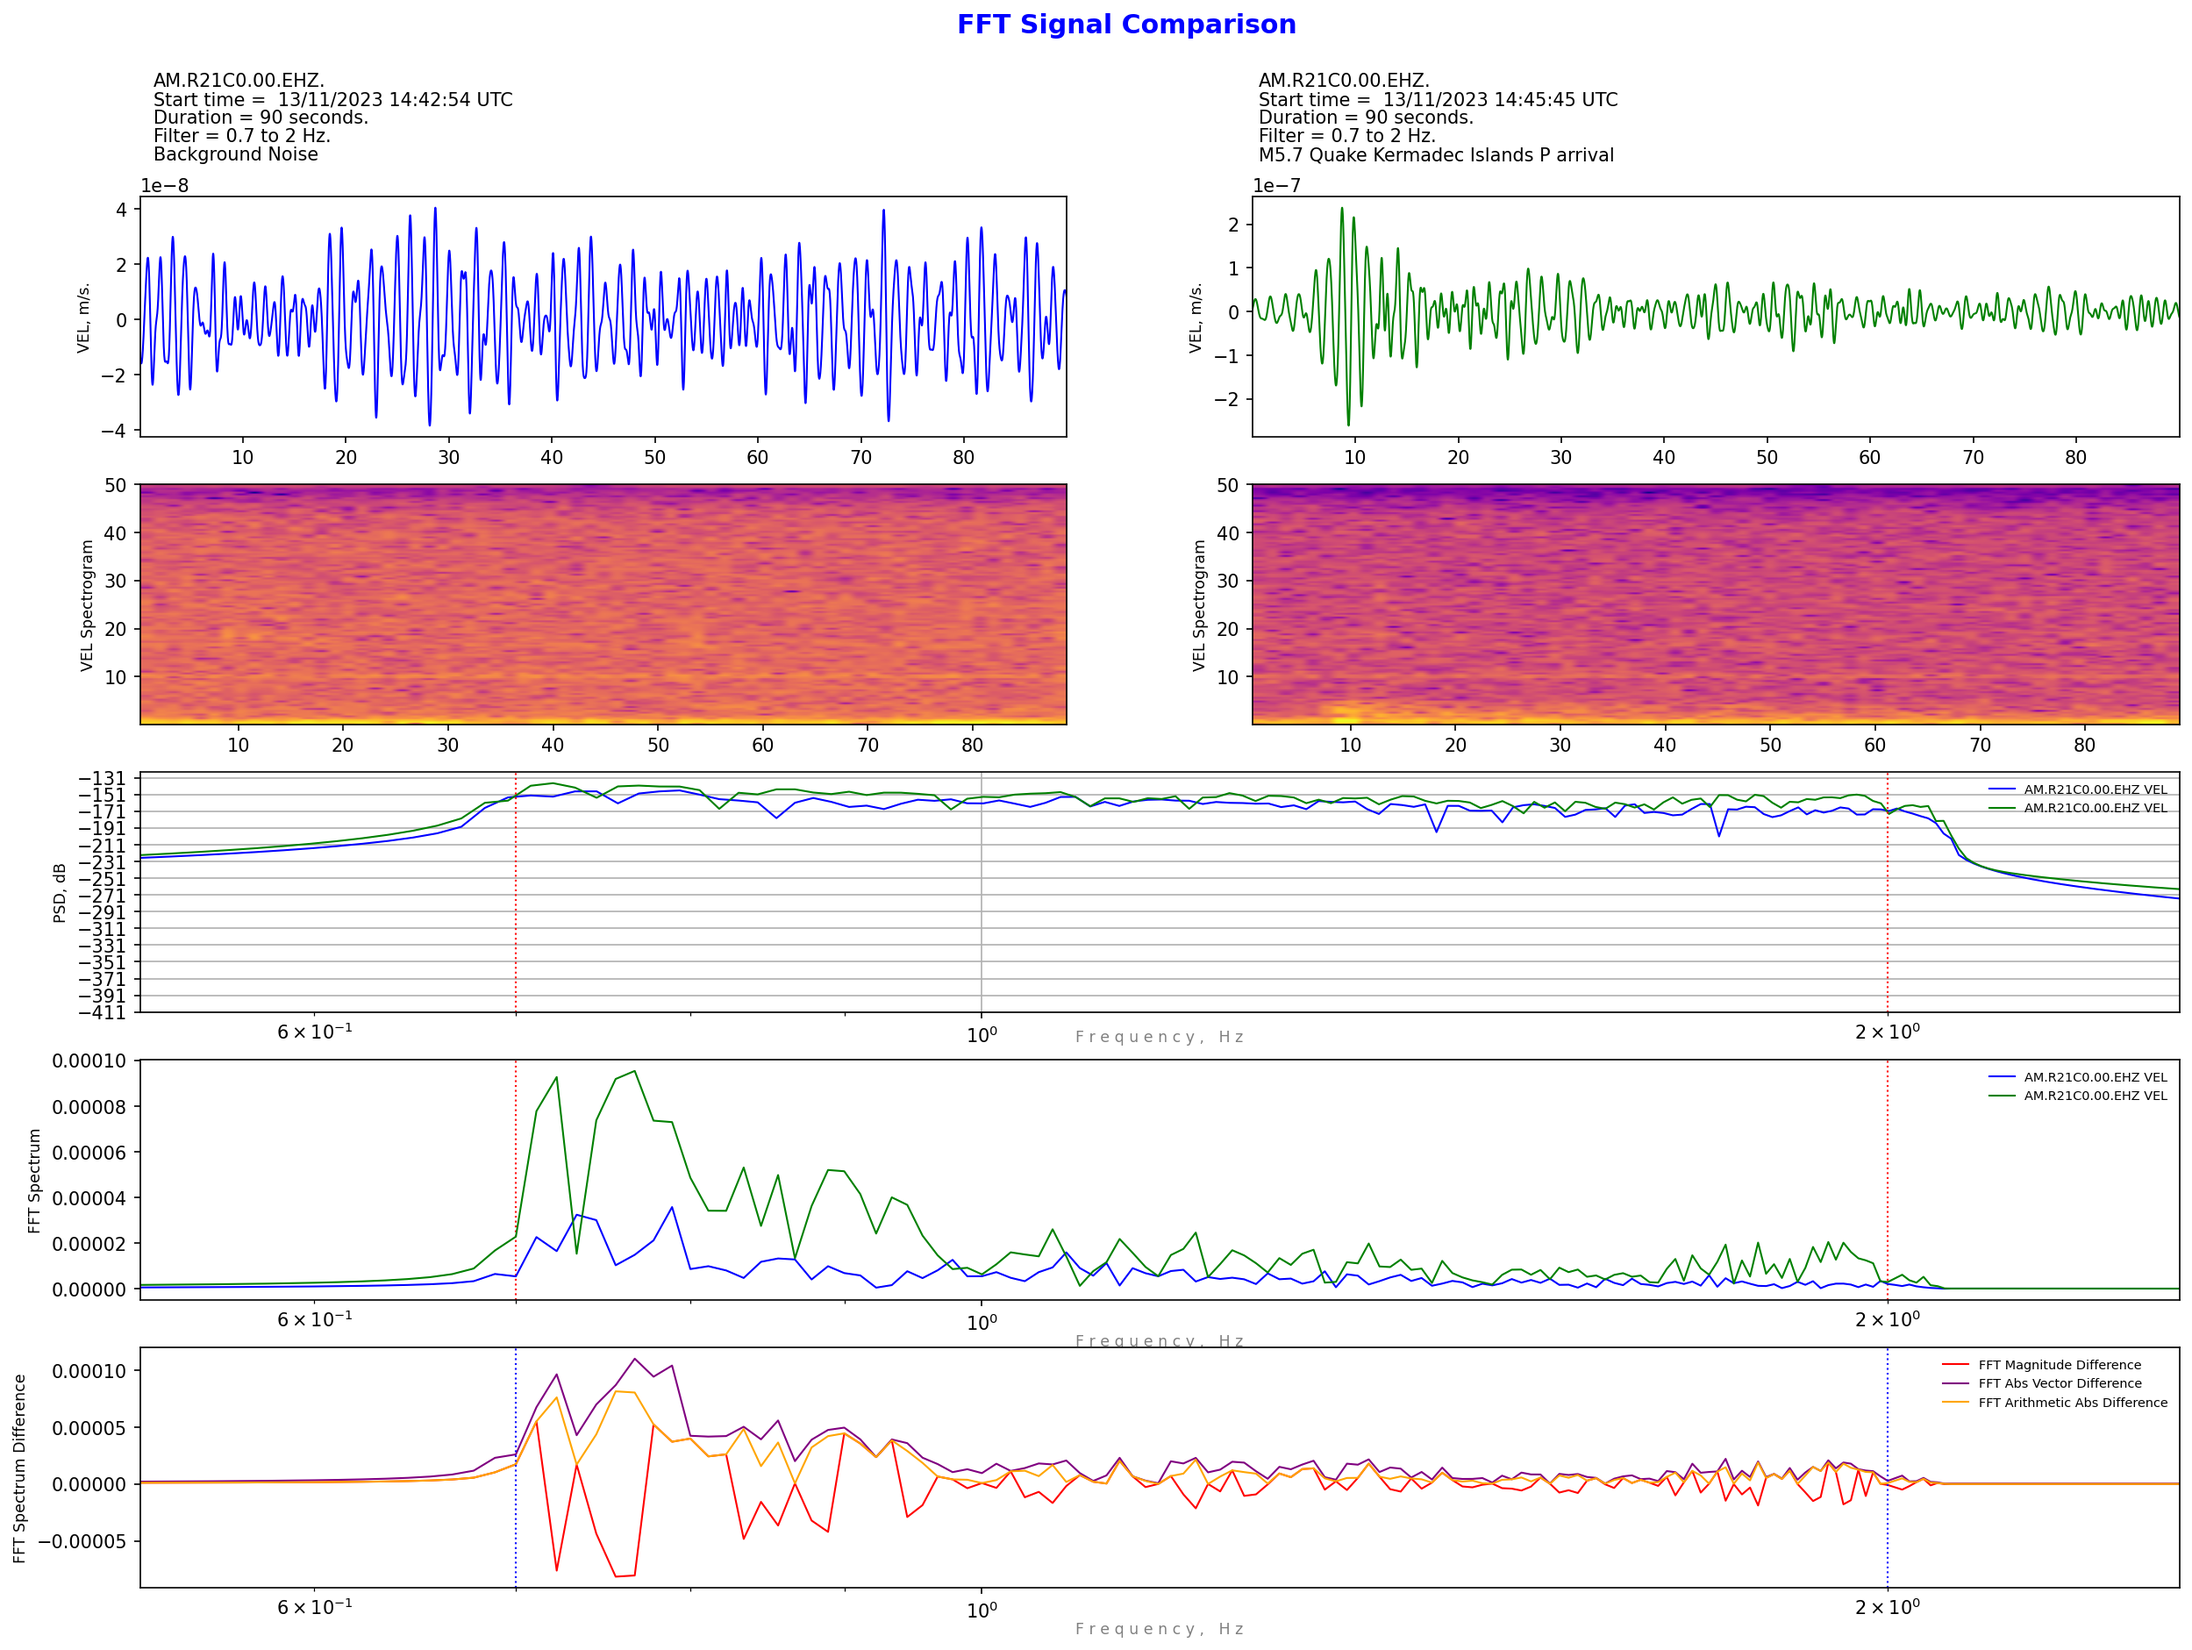
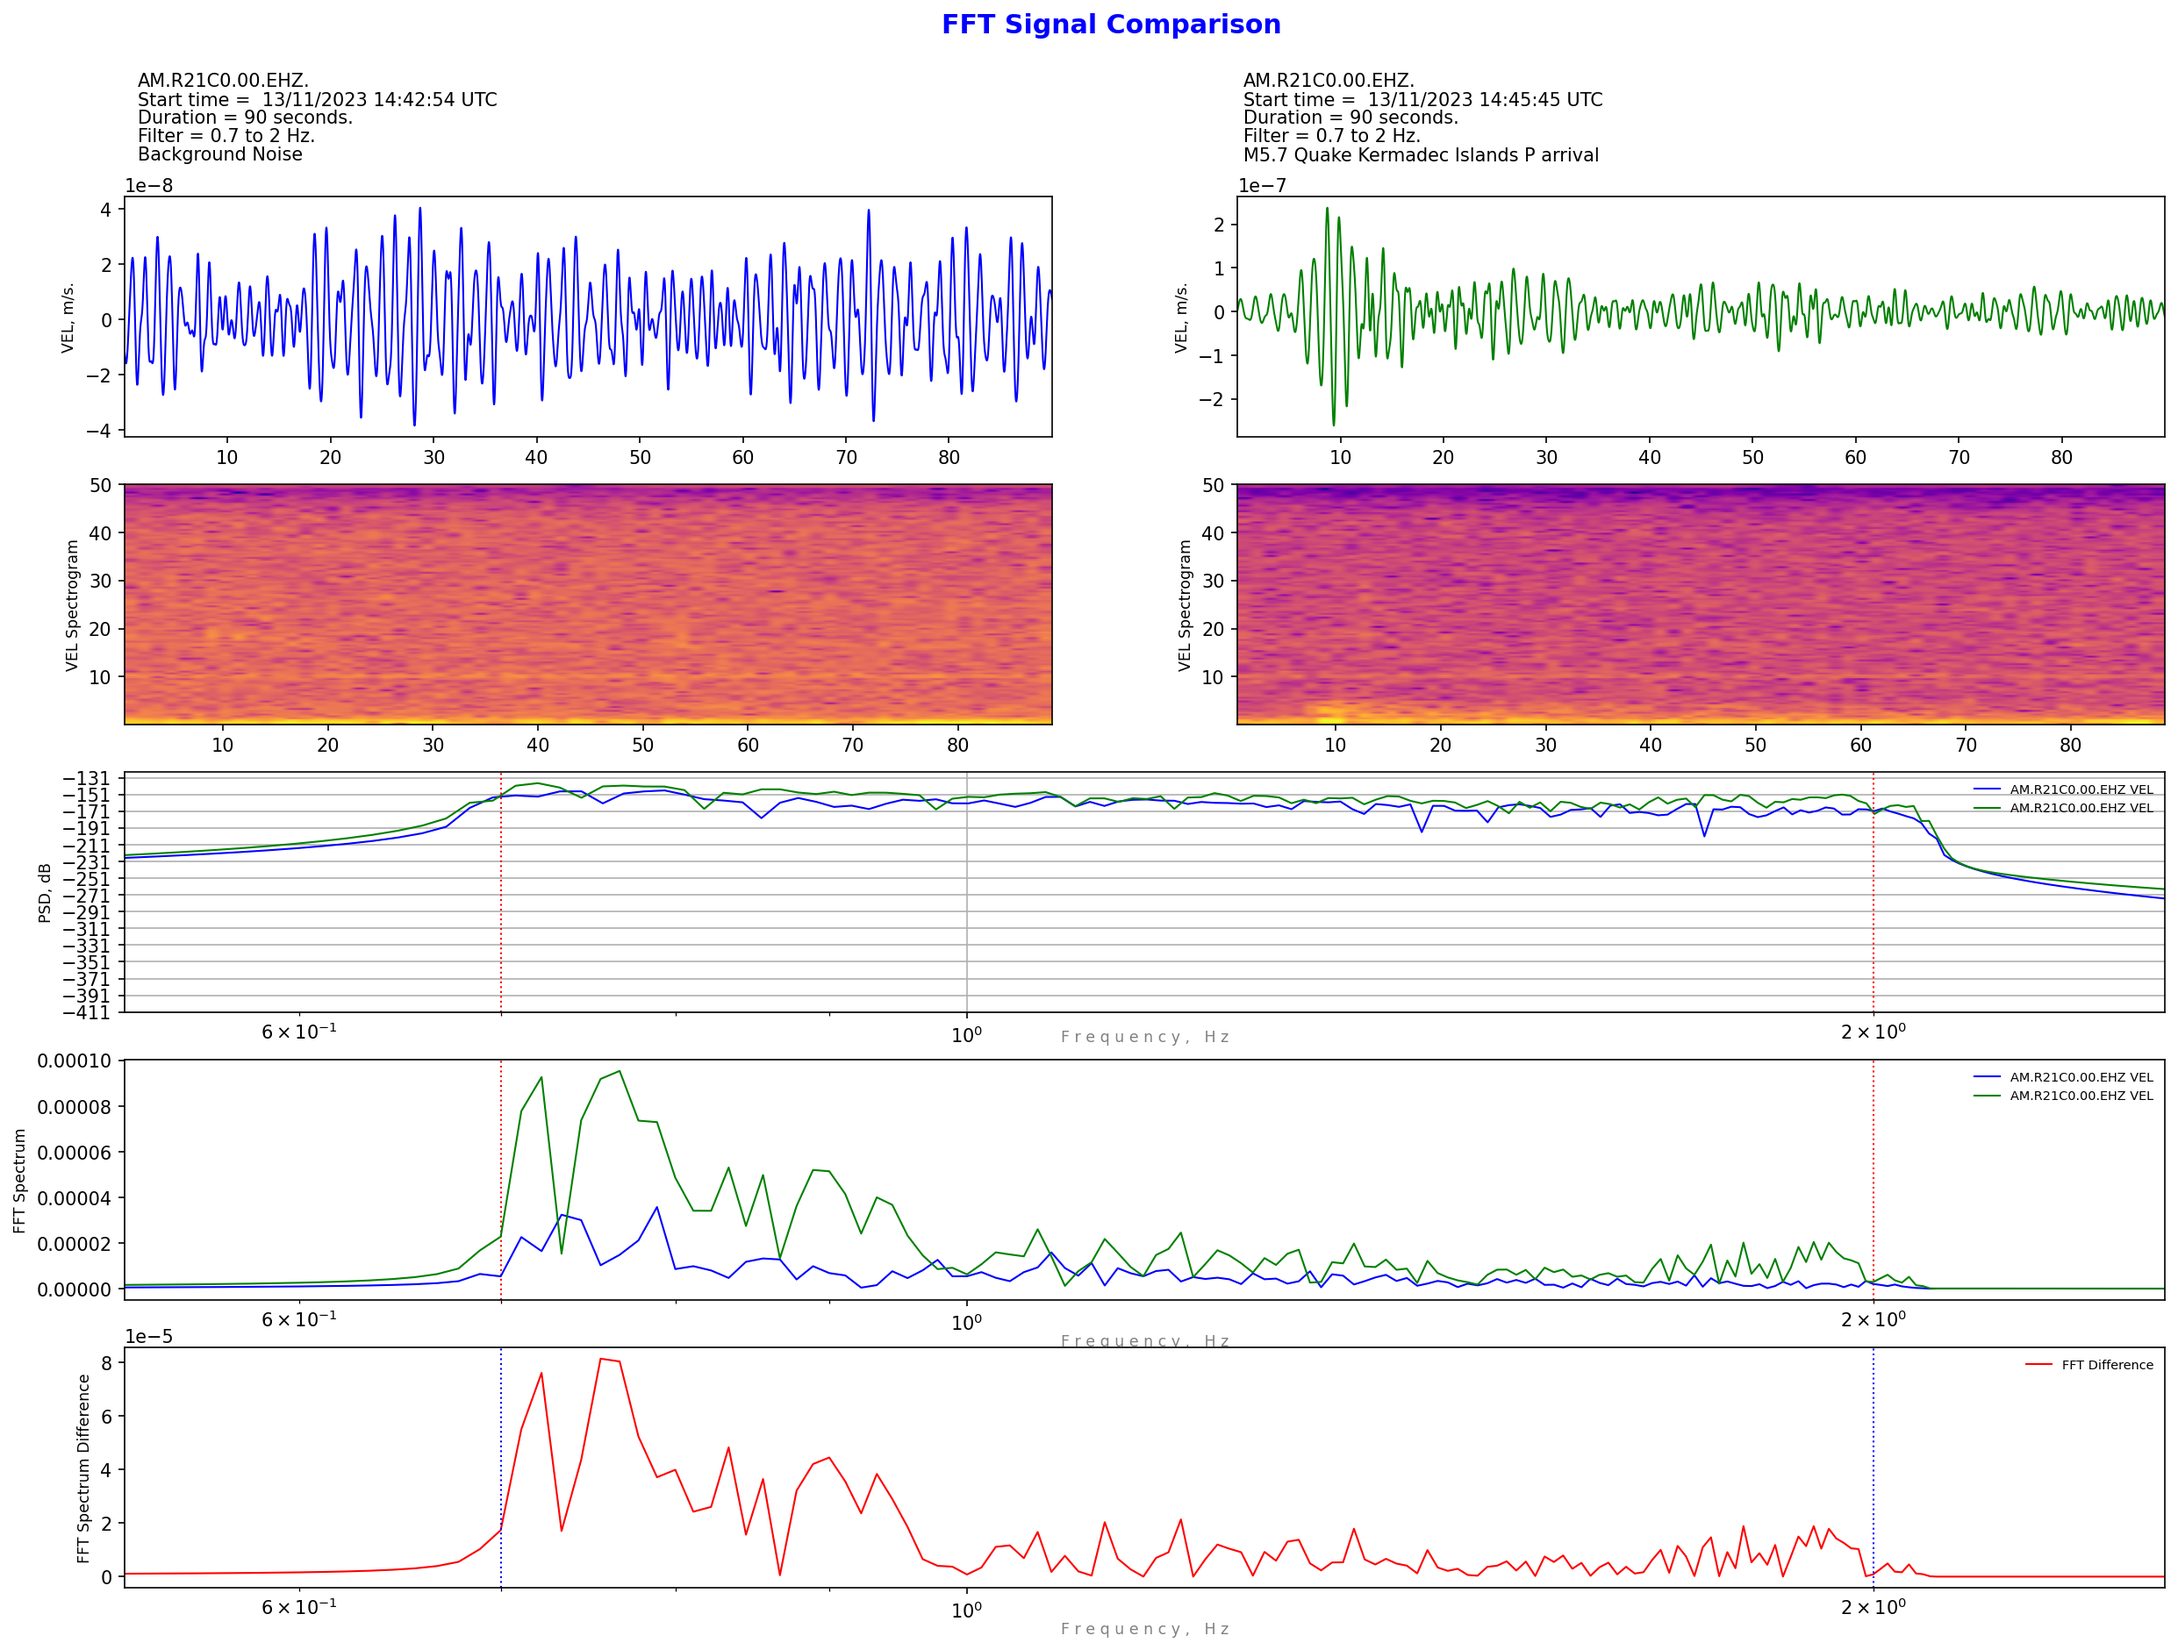
Add files via upload

diff --git a/ComSpect.py b/ComSpect.py
@@ -12,18 +12,7 @@ from obspy.core import UTCDateTime
 import matplotlib.pyplot as plt
 import numpy as np
 
-
 rs = Client('https://data.raspberryshake.org/')
-
-def FFTsub(f1, f2):
-    n = len(f1)
-    diff = []
-    for i in range(0,n):
-        if f1[i] >= f2[i]:
-            diff.append(abs(f1[i]) - abs(f2[i]))
-        else:
-            diff.append(abs(f2[i]) - abs(f1[i]))
-    return diff
 
 # Channel 1 data
 startTime1 = UTCDateTime(2023, 11, 13, 14, 42, 54) # (YYYY, m, d, H, M, S) **** Enter data****
@@ -55,9 +44,9 @@ notes2 = 'M5.7 Quake Kermadec Islands P arrival'
 duration = 90               # duration of plots in seconds **** Enter data****
 end1 = startTime1 + duration
 end2 = startTime2 + duration
-filtered = True
-logspect = False
-filt = [0.69, 0.7, 2, 2.1]
+filtered = False        # True to apply a frequency bandpass filter
+logspect = False        # True to display logarithmic spectrogram Y axes
+filt = [0.69, 0.7, 2, 2.1]      # Enter bandpass filter corners
 
 # calculate spectrum plot limits if filtered
 if filtered:
@@ -94,7 +83,7 @@ ax3 = fig.add_subplot(5, 2, 3)      # waveform 1 spectrogram
 ax4 = fig.add_subplot(5, 2, 4)      # waveform 2 spectrogram
 ax5 = fig.add_subplot(5, 2, (5,6))      # PSD plots
 ax6 = fig.add_subplot(5, 2, (7,8))      # FFT plots
-ax7 = fig.add_subplot(5, 2, (9,10))     # FFT difference plots
+ax7 = fig.add_subplot(5, 2, (9,10))     # FFT difference plot
 
 #plot traces
 if filtered:
@@ -169,12 +158,8 @@ ax6.set_ylabel("FFT Spectrum",size='small')
 ax6.set_xlabel('F r e q u e n c y ,   H z', size='small', alpha=0.5, labelpad=0)
 
 # fourier difference plot
-dfft = FFTsub(fft1, fft2)
-dfft1 = fft1 - fft2
-dfft2 = abs(fft1) - abs(fft2)
-ax7.plot(xfft, dfft, color='r', lw=1, label='FFT Magnitude Difference')
-ax7.plot(xfft, abs(dfft1), color='purple', lw=1, label='FFT Abs Vector Difference')
-ax7.plot(xfft, abs(dfft2), color='orange', lw=1, label='FFT Arithmetic Abs Difference')
+dfft = abs(fft1) - abs(fft2)
+ax7.plot(xfft, abs(dfft), color='r', lw=1, label='FFT Difference')
 ax7.legend(frameon=False, fontsize='x-small')
 ax7.margins(x=0)
 if filtered:
